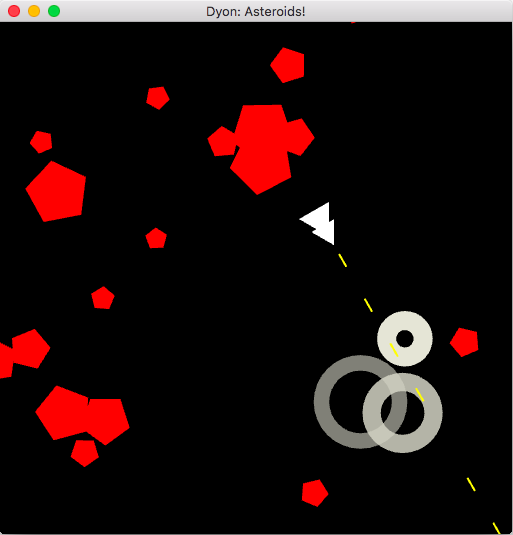
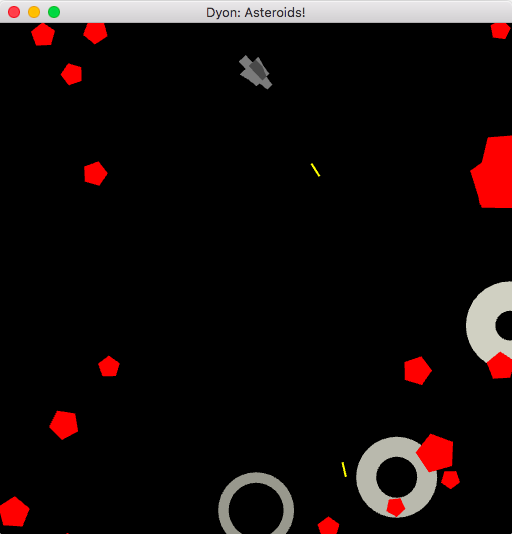
Updated screenshot
- Added pause functionality

diff --git a/README.md b/README.md
@@ -1,7 +1,7 @@
 # dyon_asteroids
 A demo game project for Dyon/Piston/Glium to test Dyon and research design for dyon_interactive
 
-Current screenshot (final version will look better):
+Current screenshot (work in progress):
 
 ![screenshot](./images/screenshot.png)
 
